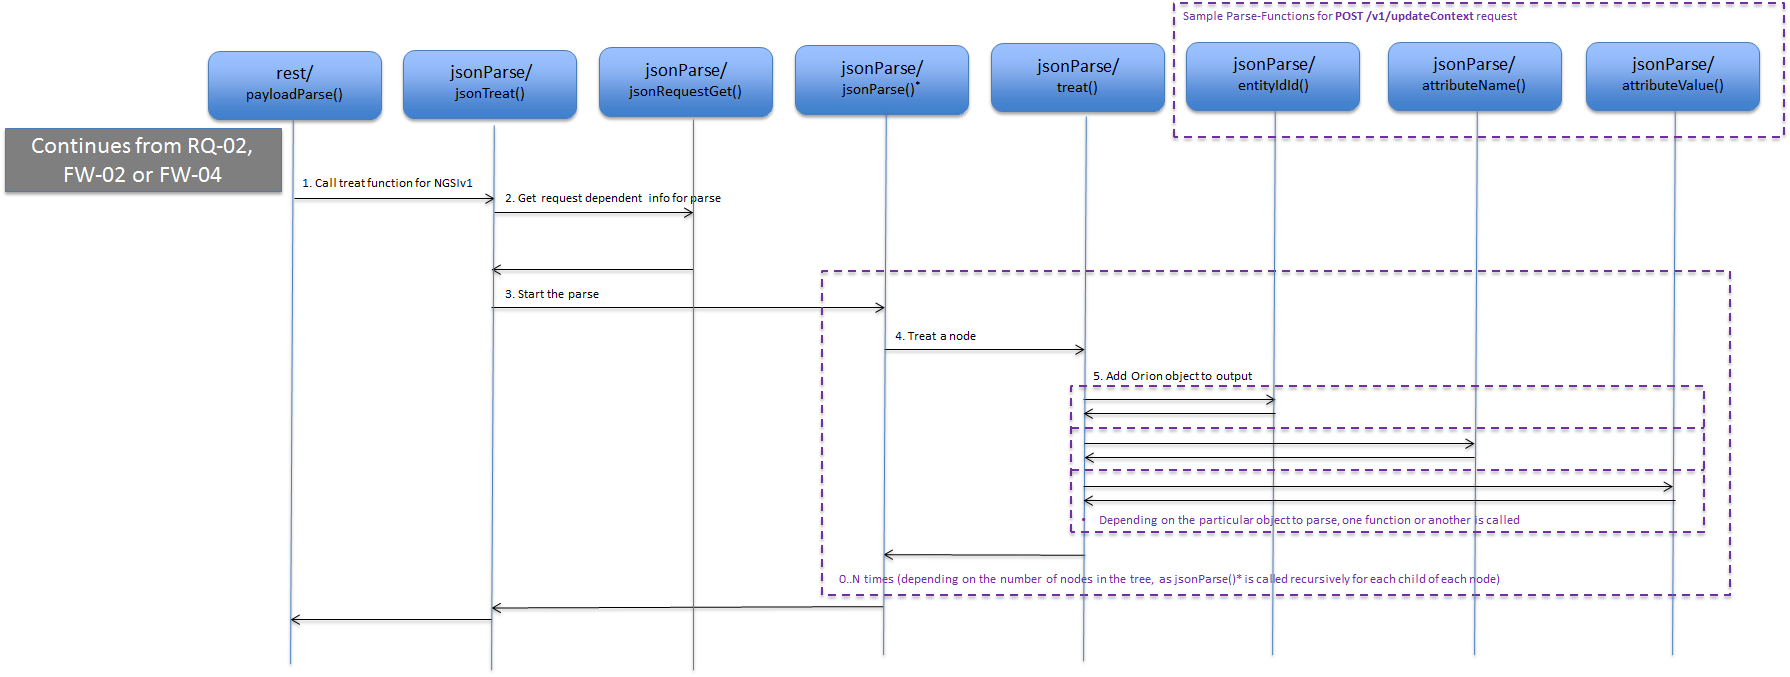
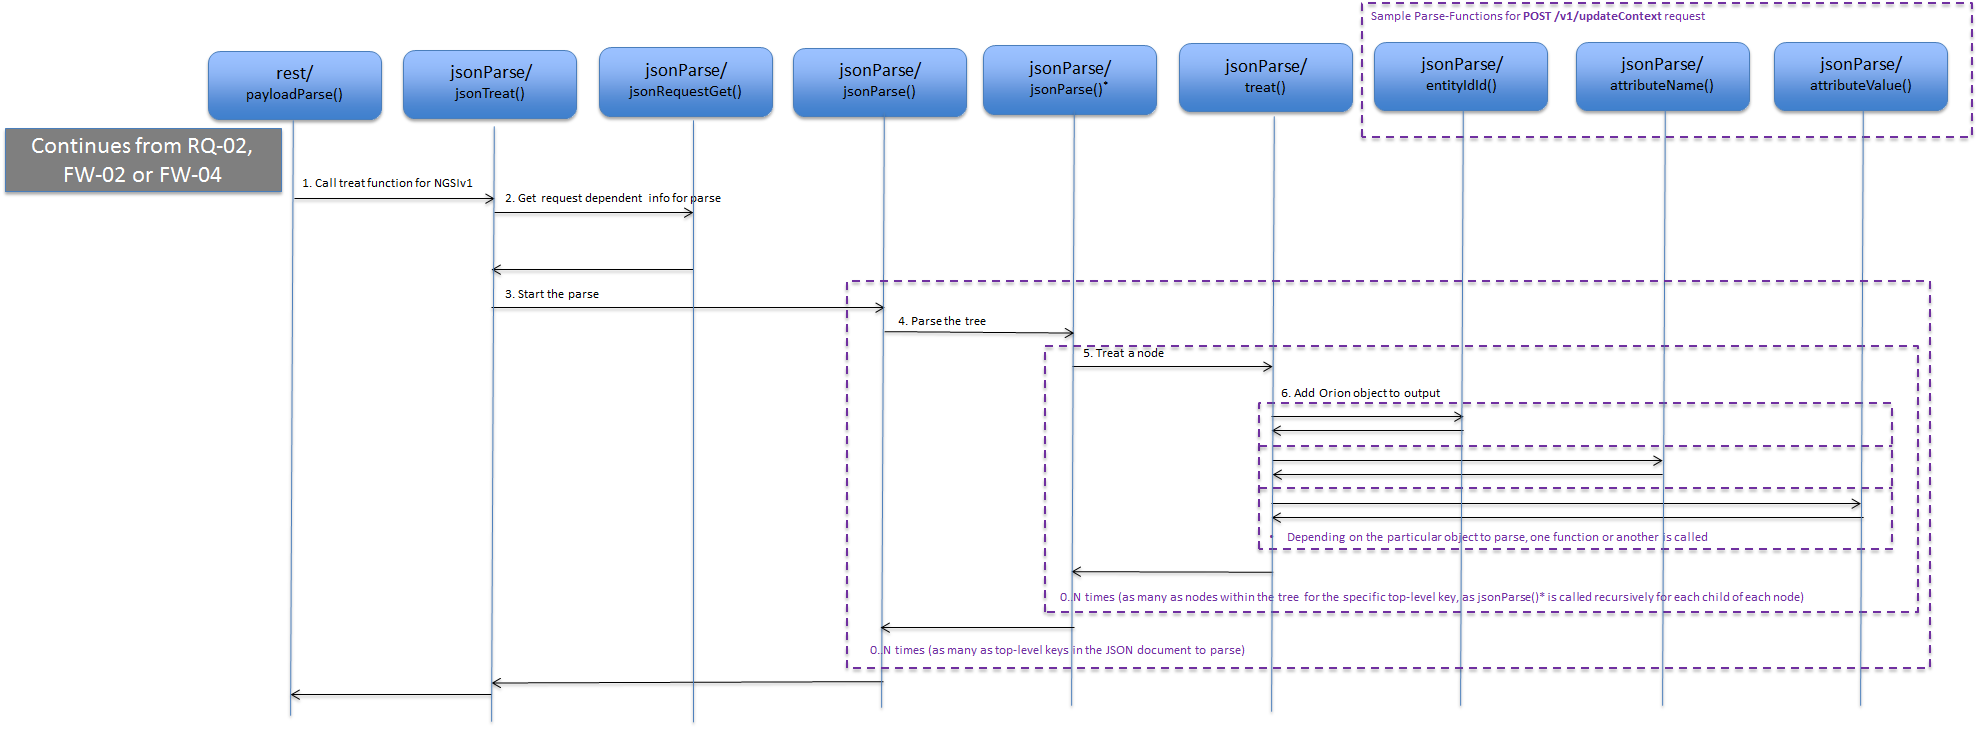
FIX issues in devel documentation

diff --git a/doc/manuals/devel/jsonParse.md b/doc/manuals/devel/jsonParse.md
@@ -1,16 +1,14 @@
 # JSON Parse NGSIv1
 
-Orion context broker contains not one but **two** libraries for JSON parsing. The reason for this is that the external library
-that was selected for parsing of NGSIv1 JSON (we will not dwelve on **why** that particular library was selected) cannot distinguish between JSON value
-types such as String, Number, Boolean, Null but **treats all values as strings**.
-This was unacceptable for NGSIv2 and so, another external JSON library (rapidjson) was chosen.
-The two json libraries of Orion implement the necessary adaption of the external libraries to be usable by Orion.
+Orion Context Broker contains not one but **two** libraries for JSON parsing. The reason for this is that the external library that was originally selected for parsing of NGSIv1 JSON cannot distinguish between JSON value types such as String, Number, Boolean, Null but **treats all values as strings**. This was unacceptable for NGSIv2 and so, another external JSON library ([rapidjson](http://rapidjson.org/)) was chosen. The two JSON libraries of Orion implement the necessary adaption of the external libraries to be usable by Orion.
+
+This document describes NGSIv1 parsing details. NGSIv2 parsing details are described in a [separate document](jsonParseV2.md).
 
 **Important**: *the purpose of the parse step is to transform a text buffer, JSON is this case, to an instance of a class/struct in C++*.  
 
 A very simple but illustrative example:
 
-The following payload (for **POST /v1/queryContext**):
+The following payload (for `POST /v1/queryContext`):
 ```
 {
   "entities": [
@@ -35,41 +33,31 @@ qprP->entityIdVector.push_back(eP);
 qprP->attributeList.push_back("temperature");
 ```
 
-This instance of `QueryContextRequest` is created by the jsonParse library and the service routine `postQueryContext()` passes it to the mongoBackend function `mongoQueryContext()`.
+This instance of `QueryContextRequest` is created by the **jsonParse** library and the service routine `postQueryContext()` passes it to the [**mongoBackend*](README.md#srclibmongobackend) function `mongoQueryContext()`.
 
 ## Library Functions
-The library `jsonParse` contains two overloaded functions with the name **jsonParse()**.
-The first one is the toplevel function that is called only once per request.  
-The second **jsonParse()** (invoked by the first) on the other hand is invoked recursively once per node in the parsed tree that
-is output from *Boost property_tree*. See full explanation in the [dedicated section on jsonParse()](#jsonparse).  
-The concrete example used for following image is the parsing of payload for **POST /v1/updateContextRequest**
+The library **jsonParse** contains two overloaded functions with the name `jsonParse()`.
+
+* The first one is the toplevel function that is called only once per request.  
+* The second `jsonParse()` (invoked by the first) on the other hand is invoked recursively once per node in the parsed tree that is output from [boost property_tree](https://theboostcpplibraries.com/boost.propertytree). We will use `jsonParse()*` from now on to distinguish from the top level `jsonParse()` function. In other words, `jsonParse()*` will call to `jsonParse()*` as it processes the nodes tree. See full explanation in the [dedicated section on jsonParse()](#jsonparse).
+
+The concrete example used for following image is the parsing of payload for `POST /v1/updateContextRequest`.
 
 <a name='flow-pp-01'></a>
-![CACHE REFRESH IMAGE](images/Flow-PP-01.png)
+![Parsing an NGSIv1 payload](images/Flow-PP-01.png)
 
-_Figure PP-01_  
+_PP-01: Parsing an NGSIv1 payload_  
 
-
-* payloadParse calls the NGSIv1 parse function for JSON payloads (which is one of three possible parse functions to call - parsing of NGSIv1 JSON, NGSIv2 JSON and TEXT)
-* In point 2 in the figure, `jsonTreat` looks up the type of request by calling jsonRequestGet(), which returns a pointer to a
-  JsonRequest struct that is needed to parse the payload (and then initiates the parse by calling jsonParse()).
-    Each type of payload needs different input to the common parsing routines.
-    A vector of JsonRequest structs contains this information and this function (jsonRequestGet) looks up the corresponding JsonRequest struct 
-    in the vector and returns it. More on the JsonRequest struct later.
-* Knowing the specific information for the request type, jsonTreat calls the toplevel jsonParse(), whose responsibility is to start the parsing of the payload  (point 3 in figure).
-* jsonParse()* reads in the payload into a stringstream and calls the function json_read that takes care of the parsing of the payload  (point 4 in figure).
-    After that, the lower level jsonParse is invoked on the resulting tree to convert the boost property tree into an Orion structure.
-    Which Orion structure depends on the request type.
-    jsonParse()* is a recursive function that calls the treat() function on each node and if the node is not a leaf,
-    does an recursive call to itself for each child of the node.
-    The treat() function checks for forbidden characters in the payload and then …
-* ... calls the specific Parse-Function for the node in question  (point 5 in figure).
-    A pointer to this specific Parse-Function is found in the struct JsonRequest, as well as the path to each node, which is how the struct is found.
-    The Parse-Function simply extracts the information from the tree node and adds it to the resulting Orion struct that is the result of the entire parse.
-    Note that each node in the tree has its own Parse-Function and that in this image just a few selected Parse-Functions are shown
-    (in fact, to parse this UpdateContextRequest payload, there are no less than 19 Parse-Functions – see jsonParse/jsonUpdateContextRequest.cpp)
-* jsonParse()* is called recursively for each child of each node (point 6 in figure)
-
+* `payloadParse()` calls the NGSIv1 parse function for JSON payloads (which is one of three possible parse functions to call: parsing of NGSIv1 JSON, NGSIv2 JSON and text) (step 1).
+* `jsonTreat()` looks up the type of request by calling `jsonRequestGet()` (step 2), which returns a pointer to a `JsonRequest` struct that is needed to parse the payload.
+    * Each type of payload needs different input to the common parsing routines. A vector of `JsonRequest` structs contains this information and this function (`jsonRequestGet()`) looks up the corresponding `JsonRequest` struct in the vector and returns it. More on the `JsonRequest` struct later.
+* Knowing the specific information for the request type, `jsonTreat()` calls the toplevel `jsonParse()`, whose responsibility is to start the parsing of the payload  (step 3). `jsonParse()` reads in the payload into a `stringstream` and calls the function `read_json()` that takes care of the parsing of the payload and covert it to a property tree.
+* After that, the lower level `jsonParse()*` function is invoked on the resulting tree to convert the boost property tree into an Orion structure (step 4). In fact, `jsonParse()*` is invoked at this point as many times as top level keys in the JSON to process.
+	* Example: for `{ "a": ..., "b": ..., "c:"... }`, `jsonParse()*` will be invoked three times (one for `"a"`, other for `"b"` and other for `"c"`).
+* `jsonParse()*` calls the `treat()` function on each node (step 5) and if the node is not a leaf, does an recursive call to itself for each child of the node.
+* The `treat()` function checks for forbidden characters in the payload and then calls the specific Parse-Function for the node in question  (step 6). A pointer to this specific Parse-Function is found in the struct `JsonRequest`, as well as the path to each node, which is how the struct is found. 
+* The Parse-Function simply extracts the information from the tree node and adds it to the resulting Orion struct that is the result of the entire parse. Note that each node in the tree has its own Parse-Function and that in this image just a few selected Parse-Functions are shown.
+	* In fact, to parse this `UpdateContextRequest` payload, there are no less than 19 Parse-Functions (see `jsonParse/jsonUpdateContextRequest.cpp`).     
 
 ## Implementation Details
 As earlier stated, `jsonTreat()` in `src/lib/jsonParse/jsonRequest.cpp` is invoked by `payloadParse()` in `src/lib/rest/RestService.cpp`.  

diff --git a/doc/manuals/devel/cprs.md b/doc/manuals/devel/cprs.md
@@ -5,7 +5,7 @@
 
 The Orion Context Broker, as explained in [the User & Programmers Manual](../user/context_providers.md), supports the concept of Context Providers. In short, when for an update/query, an entity/attribute is not found, Orion checks its list of registrations (NGSI9) and if found there, a request is forwarded to a Context Provider. The IP, port and path of the Context Provider is found in the field `providingApplication` of the `struct ContextRegistration` that is part of the registration request `RegisterContextRequest`.
 
-## Forwarding of Update Requests
+## Forwarding of update requests
 
 In NGSIv1, the request `POST /v1/updateContext` has a field called `updateActionType`. This field can take on five different values:
 
